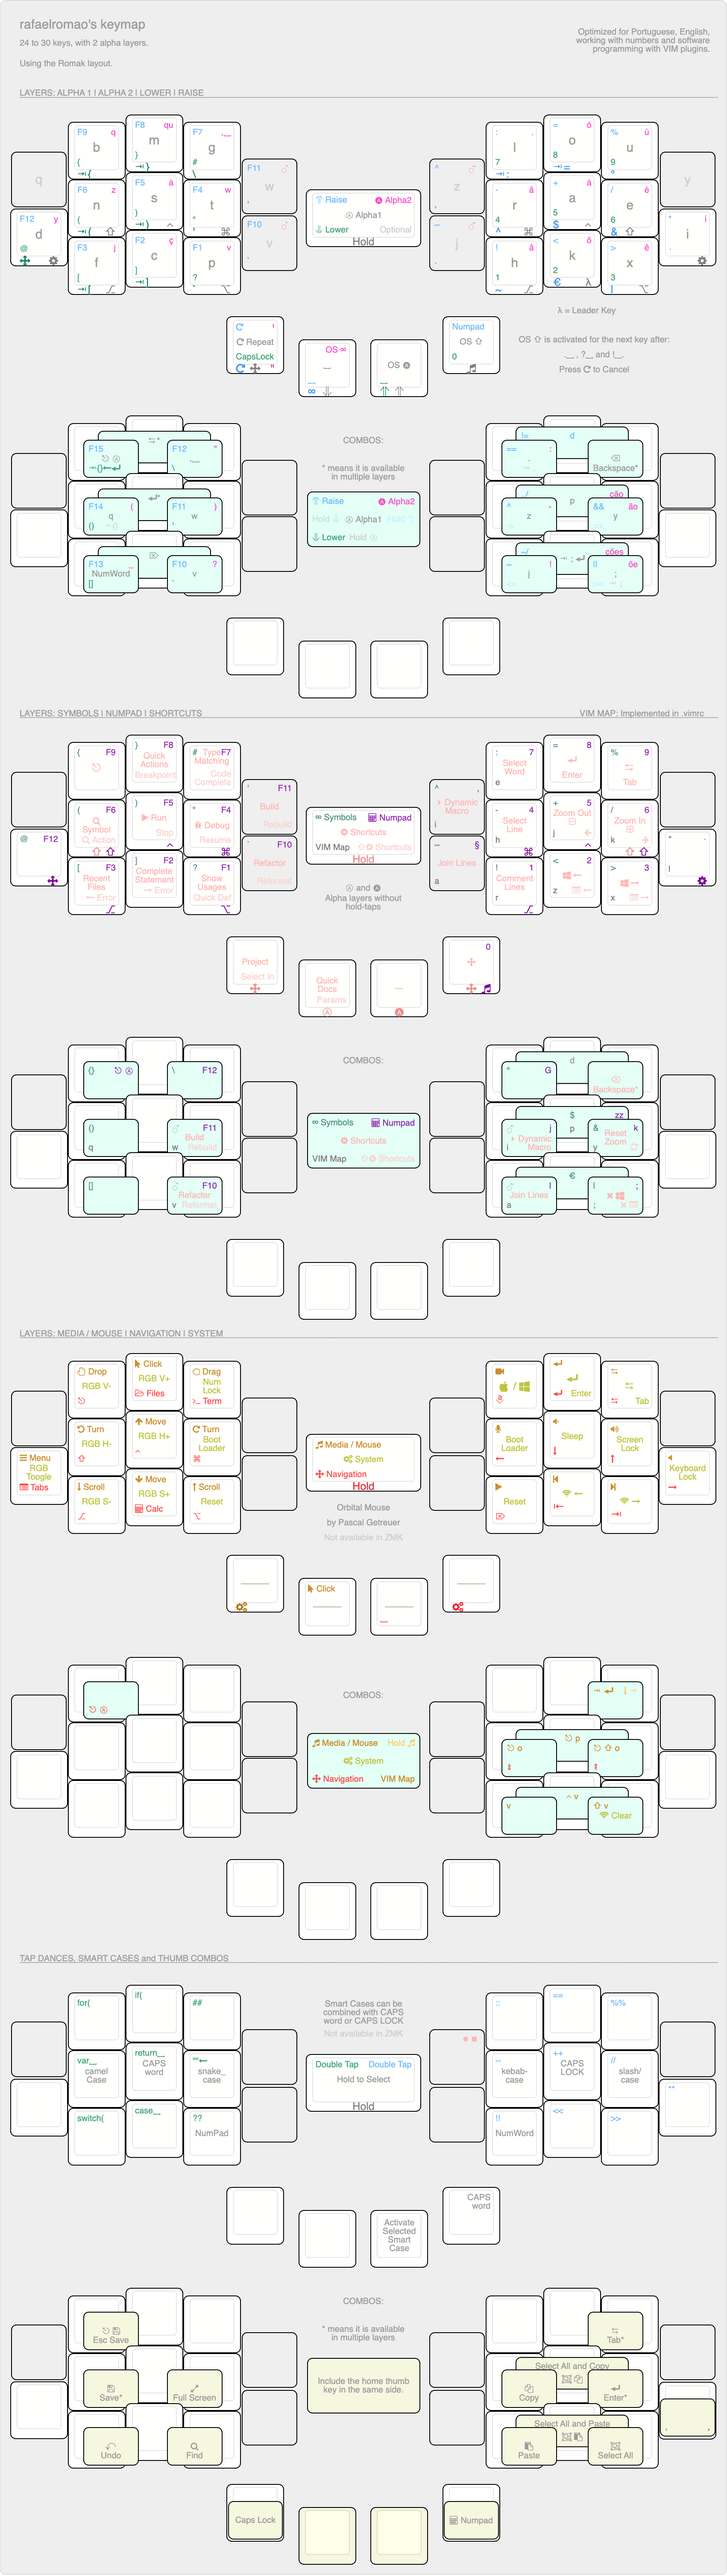
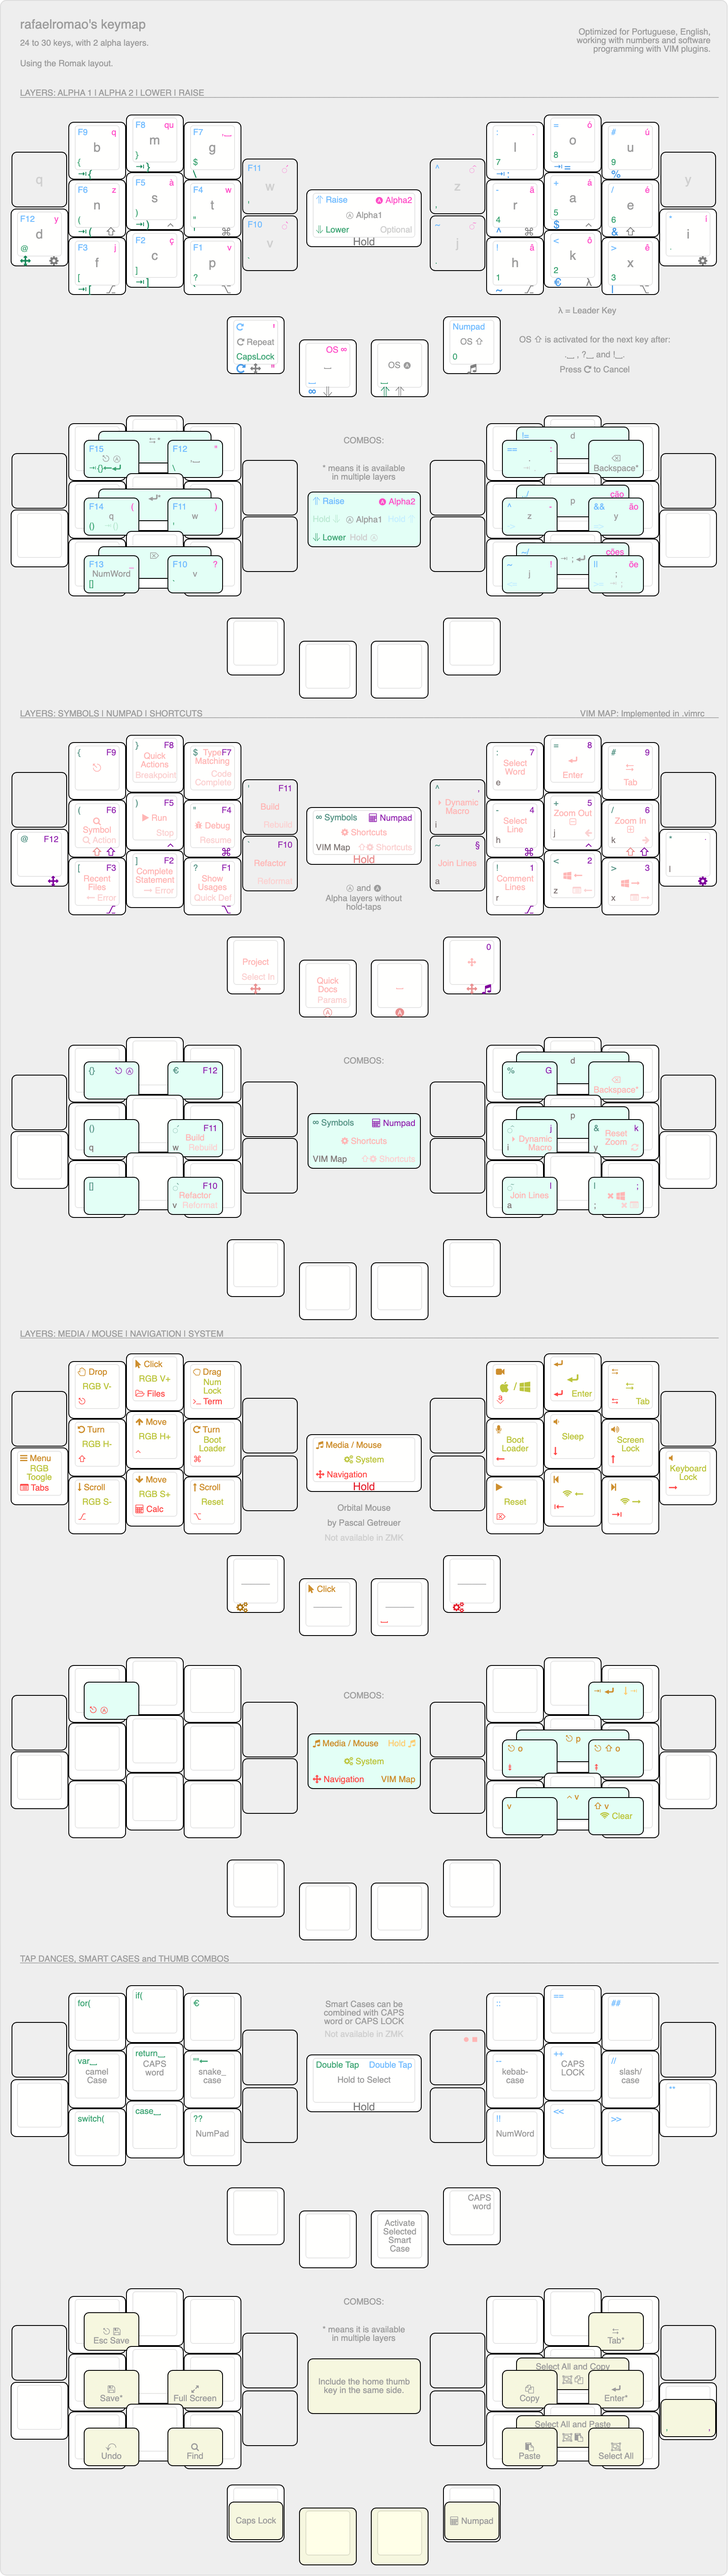
update symbol layers

diff --git a/src/qmk/users/rafaelromao/features/combos.c b/src/qmk/users/rafaelromao/features/combos.c
@@ -22,12 +22,11 @@ const uint16_t PROGMEM r_num_sfg_combo[]  = {KC_7, KC_8, COMBO_END};
 const uint16_t PROGMEM r_num_j_combo[]    = {GU_4, CT_5, COMBO_END};
 const uint16_t PROGMEM r_num_k_combo[]    = {CT_5, SF_6, COMBO_END};
 const uint16_t PROGMEM r_num_pip_combo[]  = {AL_1, KC_2, COMBO_END};
-const uint16_t PROGMEM r_num_zz_combo[]   = {GU_4, CT_5, SF_6, COMBO_END};
 
 // Lower
 
 const uint16_t PROGMEM l_low_cur_combo[] = {TD_LCBR, TD_RCBR, COMBO_END};
-const uint16_t PROGMEM l_low_bsl_combo[] = {TD_RCBR, TD_HASH, COMBO_END};
+const uint16_t PROGMEM l_low_bsl_combo[] = {TD_RCBR, TD_DLR, COMBO_END};
 const uint16_t PROGMEM l_low_par_combo[] = {TD_LPRN, TD_RPRN, COMBO_END};
 const uint16_t PROGMEM l_low_bra_combo[] = {TD_LBRC, TD_RBRC, COMBO_END};
 const uint16_t PROGMEM l_low_sqo_combo[] = {TD_RPRN, TD_DQUO, COMBO_END};
@@ -40,7 +39,6 @@ const uint16_t PROGMEM r_low_sent_combo[] = {KC_1, KC_2, KC_3, COMBO_END};
 const uint16_t PROGMEM r_low_j_combo[]    = {KC_4, KC_5, COMBO_END};
 const uint16_t PROGMEM r_low_k_combo[]    = {KC_5, KC_6, COMBO_END};
 const uint16_t PROGMEM r_low_pip_combo[]  = {KC_1, KC_2, COMBO_END};
-const uint16_t PROGMEM r_low_zz_combo[]   = {KC_4, KC_5, KC_6, COMBO_END};
 
 // Raise
 
@@ -52,11 +50,11 @@ const uint16_t PROGMEM l_rai_f14_combo[]  = {KC_F5, KC_F6, COMBO_END};
 const uint16_t PROGMEM l_rai_f15_combo[]  = {KC_F8, KC_F9, COMBO_END};
 
 const uint16_t PROGMEM r_rai_deq_combo[]  = {TD_COLN, TD_EQL, COMBO_END};
-const uint16_t PROGMEM r_rai_neq_combo[]  = {TD_COLN, TD_EQL, TD_PERC, COMBO_END};
+const uint16_t PROGMEM r_rai_neq_combo[]  = {TD_COLN, TD_EQL, TD_HASH, COMBO_END};
 const uint16_t PROGMEM r_rai_cir_combo[]  = {TD_MINS, TD_PLUS, COMBO_END};
 const uint16_t PROGMEM r_rai_dan_combo[]  = {TD_PLUS, TD_SLSH, COMBO_END};
 const uint16_t PROGMEM r_rai_dds_combo[]  = {TD_MINS, TD_PLUS, TD_SLSH, COMBO_END};
-const uint16_t PROGMEM r_rai_bsp_combo[]  = {TD_EQL, TD_PERC, COMBO_END};
+const uint16_t PROGMEM r_rai_bsp_combo[]  = {TD_EQL, TD_HASH, COMBO_END};
 const uint16_t PROGMEM r_rai_til_combo[]  = {TD_EXLM, TD_LT, COMBO_END};
 const uint16_t PROGMEM r_rai_dor_combo[]  = {TD_LT, TD_GT, COMBO_END};
 const uint16_t PROGMEM r_rai_tisl_combo[] = {TD_EXLM, TD_LT, TD_GT, COMBO_END};
@@ -82,21 +80,19 @@ const uint16_t PROGMEM r_sho_joi_combo[] = {MC_COMT, MC_SWLE, COMBO_END};
 
 // Symbols
 
-const uint16_t PROGMEM l_sym_bsl_combo[]  = {KC_RCBR, KC_HASH, COMBO_END};
+const uint16_t PROGMEM l_sym_eur_combo[]  = {KC_RCBR, KC_DLR, COMBO_END};
 const uint16_t PROGMEM l_sym_cur_combo[]  = {KC_LCBR, KC_RCBR, COMBO_END};
 const uint16_t PROGMEM l_sym_par_combo[]  = {KC_LPRN, KC_RPRN, COMBO_END};
 const uint16_t PROGMEM l_sym_bra_combo[]  = {KC_LBRC, KC_RBRC, COMBO_END};
 const uint16_t PROGMEM l_sym_quo_combo[]  = {KC_RPRN, KC_DQUO, COMBO_END};
 const uint16_t PROGMEM l_sym_grv_combo[]  = {KC_RBRC, KC_QUES, COMBO_END};
 
-const uint16_t PROGMEM r_sym_deg_combo[]  = {KC_COLN, KC_EQL, COMBO_END};
+const uint16_t PROGMEM r_sym_perc_combo[]  = {KC_COLN, KC_EQL, COMBO_END};
 const uint16_t PROGMEM r_sym_cir_combo[]  = {KC_MINS, KC_PLUS, COMBO_END};
 const uint16_t PROGMEM r_sym_til_combo[]  = {KC_EXLM, KC_LT, COMBO_END};
-const uint16_t PROGMEM r_sym_bsp_combo[]  = {KC_EQL, KC_PERC, COMBO_END};
+const uint16_t PROGMEM r_sym_bsp_combo[]   = {KC_EQL, KC_HASH, COMBO_END};
 const uint16_t PROGMEM r_sym_amp_combo[]  = {KC_PLUS, KC_SLSH, COMBO_END};
-const uint16_t PROGMEM r_sym_pip_combo[]  = {KC_LT, KC_GT, COMBO_END};
-const uint16_t PROGMEM r_sym_dol_combo[]  = {KC_MINS, KC_PLUS, KC_SLSH, COMBO_END};
-const uint16_t PROGMEM r_sym_eur_combo[]  = {KC_EXLM, KC_LT, KC_GT, COMBO_END};
+const uint16_t PROGMEM r_sym_pip_combo[]   = {KC_LT, KC_GT, COMBO_END};
 
 // Alpha 2
 
@@ -174,13 +170,12 @@ const uint16_t PROGMEM secret_1_combo[] = {SEC_1, SEC_2, SEC_3, SEC_4, COMBO_END
 combo_t key_combos[] = {
     COMBO(r_num_sent_combo, MC_SENT),   COMBO(l_low_sqo_combo, MC_SQUO),   COMBO(l_low_bti_combo, MC_BTIC),
     COMBO(r_num_sfg_combo, LSFT(KC_G)), COMBO(r_num_j_combo, KC_A),        COMBO(r_num_k_combo, KC_E),
-    COMBO(r_num_pip_combo, KC_PIPE),    COMBO(r_num_zz_combo, MC_ZZ),      COMBO(l_low_bsl_combo, KC_BSLS),
-    COMBO(r_low_sent_combo, MC_SENT),   COMBO(r_low_j_combo, KC_A),        COMBO(r_low_k_combo, KC_E),
-    COMBO(r_low_pip_combo, KC_PIPE),    COMBO(r_low_zz_combo, MC_ZZ),      COMBO(l_sym_par_combo, TD_PARN),
-    COMBO(l_sym_bra_combo, MC_BRAC),    COMBO(l_sym_quo_combo, KC_QUOT),   COMBO(l_sym_grv_combo, KC_GRV),
-    COMBO(l_sym_bsl_combo, KC_BSLS),    COMBO(r_sym_deg_combo, MC_DEG),    COMBO(r_sym_cir_combo, KC_CIRC),
-    COMBO(r_sym_amp_combo, KC_AMPR),    COMBO(r_sym_pip_combo, KC_PIPE),   COMBO(r_sym_dol_combo, KC_DLR),
-    COMBO(r_sym_til_combo, KC_TILD),    COMBO(r_sym_eur_combo, MC_EUR),    COMBO(r_sym_bsp_combo, KC_BSPC),
+    COMBO(r_num_pip_combo, KC_PIPE),    COMBO(l_low_bsl_combo, KC_BSLS),   COMBO(r_low_sent_combo, MC_SENT),
+    COMBO(r_low_j_combo, KC_A),         COMBO(r_low_k_combo, KC_E),        COMBO(r_low_pip_combo, KC_PIPE),
+    COMBO(l_sym_cur_combo, MC_CURS),    COMBO(l_sym_par_combo, TD_PARN),   COMBO(l_sym_bra_combo, MC_BRAC),
+    COMBO(l_sym_quo_combo, KC_QUOT),    COMBO(l_sym_grv_combo, KC_GRV),    COMBO(l_sym_eur_combo, MC_EUR),
+    COMBO(r_sym_perc_combo, KC_PERC),   COMBO(r_sym_cir_combo, KC_CIRC),   COMBO(r_sym_amp_combo, KC_AMPR),
+    COMBO(r_sym_pip_combo, KC_PIPE),    COMBO(r_sym_til_combo, KC_TILD),   COMBO(r_sym_bsp_combo, KC_BSPC),
     COMBO(r_low_com_combo, KC_COMM),    COMBO(r_num_com_combo, KC_COMM),   COMBO(l_acc_esc_combo, MC_ESCC),
     COMBO(l_acc_und_combo, KC_UNDS),    COMBO(l_acc_ques_combo, MC_QUES),  COMBO(l_acc_dqo_combo, MC_DQUO),
     COMBO(l_low_cur_combo, MC_CUR),     COMBO(l_low_bra_combo, MC_BRAC),   COMBO(l_low_par_combo, TD_PARN),

diff --git a/src/qmk/users/rafaelromao/features/tapdance.c b/src/qmk/users/rafaelromao/features/tapdance.c
@@ -148,23 +148,17 @@ void td_dquo(tap_dance_state_t *state, void *user_data) {
     }
 }
 
-void td_hash(tap_dance_state_t *state, void *user_data) {
+void td_dlr(tap_dance_state_t *state, void *user_data) {
     tap_state.state = dance_state(state);
     switch (tap_state.state) {
         case TD_SINGLE_TAP:
-            tap_code16(KC_HASH);
+            tap_code16(KC_DLR);
             break;
         case TD_SINGLE_HOLD:
             tap_code16(KC_BSLS);
             break;
         case TD_DOUBLE_TAP:
-            tap_code16(KC_HASH);
-            tap_code16(KC_HASH);
-            break;
-        case TD_TRIPLE_TAP:
-            tap_code16(KC_HASH);
-            tap_code16(KC_HASH);
-            tap_code16(KC_HASH);
+            process_macros(MC_EUR, NULL);
             break;
         default:
             break;
@@ -427,24 +421,24 @@ void td_excl(tap_dance_state_t *state, void *user_data) {
     }
 }
 
-void td_percent(tap_dance_state_t *state, void *user_data) {
+void td_hash(tap_dance_state_t *state, void *user_data) {
     tap_state.state = dance_state(state);
 
     switch (tap_state.state) {
         case TD_SINGLE_TAP:
-            tap_code16(KC_PERC);
+            tap_code16(KC_HASH);
             break;
         case TD_DOUBLE_TAP:
-            tap_code16(KC_PERC);
-            tap_code16(KC_PERC);
+            tap_code16(KC_HASH);
+            tap_code16(KC_HASH);
             break;
         case TD_TRIPLE_TAP:
-            tap_code16(KC_PERC);
-            tap_code16(KC_PERC);
-            tap_code16(KC_PERC);
+            tap_code16(KC_HASH);
+            tap_code16(KC_HASH);
+            tap_code16(KC_HASH);
             break;
         case TD_SINGLE_HOLD:
-            process_macros(MC_DEG, NULL);
+            tap_code16(KC_PERC);
             break;
         default:
             break;
@@ -586,7 +580,7 @@ tap_dance_action_t tap_dance_actions[] = {
 #endif
     [MIN_CIR] = ACTION_TAP_DANCE_FN(td_mins),
     [COL_ECO] = ACTION_TAP_DANCE_FN(td_colon),
-    [PER_DEG] = ACTION_TAP_DANCE_FN(td_percent),
+    [HAS_PER] = ACTION_TAP_DANCE_FN(td_hash),
     [QUE_EXC] = ACTION_TAP_DANCE_FN(td_ques),
     [EQL_EEQ] = ACTION_TAP_DANCE_FN(td_eql),
     [PLU_DOL] = ACTION_TAP_DANCE_FN(td_plus),
@@ -595,7 +589,7 @@ tap_dance_action_t tap_dance_actions[] = {
     [SLS_BSL] = ACTION_TAP_DANCE_FN(td_slash),
     [CIR_SAR] = ACTION_TAP_DANCE_FN(td_circ),
     [DAN_DAR] = ACTION_TAP_DANCE_FN(td_dand),
-    [HAS_SEC] = ACTION_TAP_DANCE_FN(td_hash),
+    [DLR_BSL] = ACTION_TAP_DANCE_FN(td_dlr),
     [DOT_DOT] = ACTION_TAP_DANCE_FN(td_dot)};
 
 // clang-format on

diff --git a/src/qmk/users/rafaelromao/definitions/keymap_blocks.h b/src/qmk/users/rafaelromao/definitions/keymap_blocks.h
@@ -55,7 +55,7 @@
 #define ___________________ALPHA2_R3_________           KC_TILD , MC_CR_A , MC_CR_O , MC_CR_E 
 #define ____ALPHA2_R4____                               _______ , _______
 
-#define ___________________LOWER_L1__________           XXXXXXX , TD_LCBR , TD_RCBR , TD_HASH 
+#define ___________________LOWER_L1__________           XXXXXXX , TD_LCBR , TD_RCBR , TD_DLR 
 #define ___________________LOWER_L2____________________ NAV_AT  , TD_LPRN , TD_RPRN , TD_DQUO , MC_SQUO
 #define           _________LOWER_L3____________________           TD_LBRC , TD_RBRC , TD_QUES , MC_BTIC
 #define                               ____LOWER_L4_____                               KC_CAPS , _______
@@ -70,17 +70,17 @@
 #define           _________RAISE_L3____________________           KC_F3   , KC_F2   , KC_F1   , KC_F10
 #define                               ____RAISE_L4_____                               QK_REP  , SYM_SPC
 
-#define           _________RAISE_R1____________________           TD_COLN , TD_EQL  , TD_PERC , XXXXXXX
+#define           _________RAISE_R1____________________           TD_COLN , TD_EQL  , TD_HASH , XXXXXXX
 #define ___________________RAISE_R2____________________ MC_CIRC , TD_MINS , TD_PLUS , TD_SLSH , KC_ASTR
 #define ___________________RAISE_R3__________           MC_TILD , TD_EXLM , TD_LT   , TD_GT     
 #define ____RAISE_R4_____                               _______ , TG_NUM
 
-#define _________________SYMBOLS_L1__________           XXXXXXX , KC_LCBR , KC_RCBR , KC_HASH 
+#define _________________SYMBOLS_L1__________           XXXXXXX , KC_LCBR , KC_RCBR , KC_DLR 
 #define _________________SYMBOLS_L2____________________ KC_AT   , KC_LPRN , KC_RPRN , KC_DQUO , KC_QUOT
 #define           _______SYMBOLS_L3____________________           KC_LBRC , KC_RBRC , KC_QUES , KC_GRV
 #define                               __SYMBOLS_L4_____                               KC_CAPS , KC_SPC 
 
-#define           _______SYMBOLS_R1____________________           KC_COLN , KC_EQL  , KC_PERC , XXXXXXX
+#define           _______SYMBOLS_R1____________________           KC_COLN , KC_EQL  , KC_HASH , XXXXXXX
 #define _________________SYMBOLS_R2____________________ KC_CIRC , KC_MINS , KC_PLUS , KC_SLSH , KC_ASTR
 #define _________________SYMBOLS_R3__________           KC_TILD , KC_EXLM , KC_LT   , KC_GT     
 #define __SYMBOLS_R4_____                               KC_SPC  , TG_NUM

diff --git a/src/qmk/users/rafaelromao/definitions/keycodes.h b/src/qmk/users/rafaelromao/definitions/keycodes.h
@@ -27,7 +27,7 @@ enum {
     DOT_DOT, 
     MIN_CIR, 
     COL_ECO,
-    PER_DEG,
+    HAS_PER,
     SLS_BSL,
     QUE_EXC,
     EQL_EEQ,
@@ -36,7 +36,7 @@ enum {
     DOR_GTE,
     CIR_SAR,
     DAN_DAR,
-    HAS_SEC,
+    DLR_BSL,
     TD_CODE_END 
 };
 
@@ -63,7 +63,7 @@ enum {
 #define TD_DOT TD(DOT_DOT)
 #define TD_MINS TD(MIN_CIR)
 #define TD_COLN TD(COL_ECO)
-#define TD_PERC TD(PER_DEG)
+#define TD_HASH TD(HAS_PER)
 #define TD_QUES TD(QUE_EXC)
 #define TD_SLSH TD(SLS_BSL)
 #define TD_EQL TD(EQL_EEQ)
@@ -72,7 +72,7 @@ enum {
 #define TD_DOR TD(DOR_GTE)
 #define TD_CIRC TD(CIR_SAR)
 #define TD_DAND TD(DAN_DAR)
-#define TD_HASH TD(HAS_SEC)
+#define TD_DLR TD(DLR_BSL)
 
 // Custom keycodes
 
@@ -120,7 +120,7 @@ enum {
     MC_GV_A, MC_CR_A, MC_TL_A, MC_SQ_A,
     MC_SQ_U, MC_CR_O, MC_SQ_O, MC_SQ_I,
     MC_CR_E, MC_TL_O, MC_SQ_C, MC_SQ_E,
-    MC_AO, MC_OE, MC_CAO, MC_COES, MC_QU, MC_ZZ,
+    MC_AO, MC_OE, MC_CAO, MC_COES, MC_QU,
 
     // End macros for accented letters
     ALPHA_MACRO_END,

diff --git a/src/qmk/users/rafaelromao/features/accents.c b/src/qmk/users/rafaelromao/features/accents.c
@@ -113,13 +113,6 @@ process_record_result_t process_ngrams(uint16_t keycode, bool isShifted) {
             tap_code(KC_U);
             return PROCESS_RECORD_RETURN_FALSE;
 
-            // zz (considering vim remap)
-
-        case MC_ZZ:
-            tap_code(KC_K);
-            tap_code(KC_K);
-            return PROCESS_RECORD_RETURN_FALSE;
-
         case TG_CAPS:
             tap_code(KC_CAPS);
             return PROCESS_RECORD_RETURN_FALSE;

diff --git a/src/qmk/users/rafaelromao/features/leader.c b/src/qmk/users/rafaelromao/features/leader.c
@@ -5,6 +5,11 @@
 leader_t leader = {.isLeading = false};
 
 void process_leader_dictionary(void) {
+    // Degree sign
+    if (leader_sequence_two_keys(TD_DOT, KC_D)) {
+        process_macros(MC_DEG, NULL);
+        return;
+    }
     // Section sign
     if (leader_sequence_two_keys(TD_DOT, KC_S)) {
         process_macros(MC_SEC, NULL);

diff --git a/src/qmk/users/rafaelromao/definitions/keycodes.c b/src/qmk/users/rafaelromao/definitions/keycodes.c
@@ -33,8 +33,8 @@ uint16_t extract_tapping_keycode(uint16_t keycode) {
             return KC_MINS;
         case TD_COLN:
             return KC_COLN;
-        case TD_PERC:
-            return KC_PERC;
+        case TD_DLR:
+            return KC_DLR;
         case TD_QUES:
             return KC_QUES;
         case TD_SLSH:
